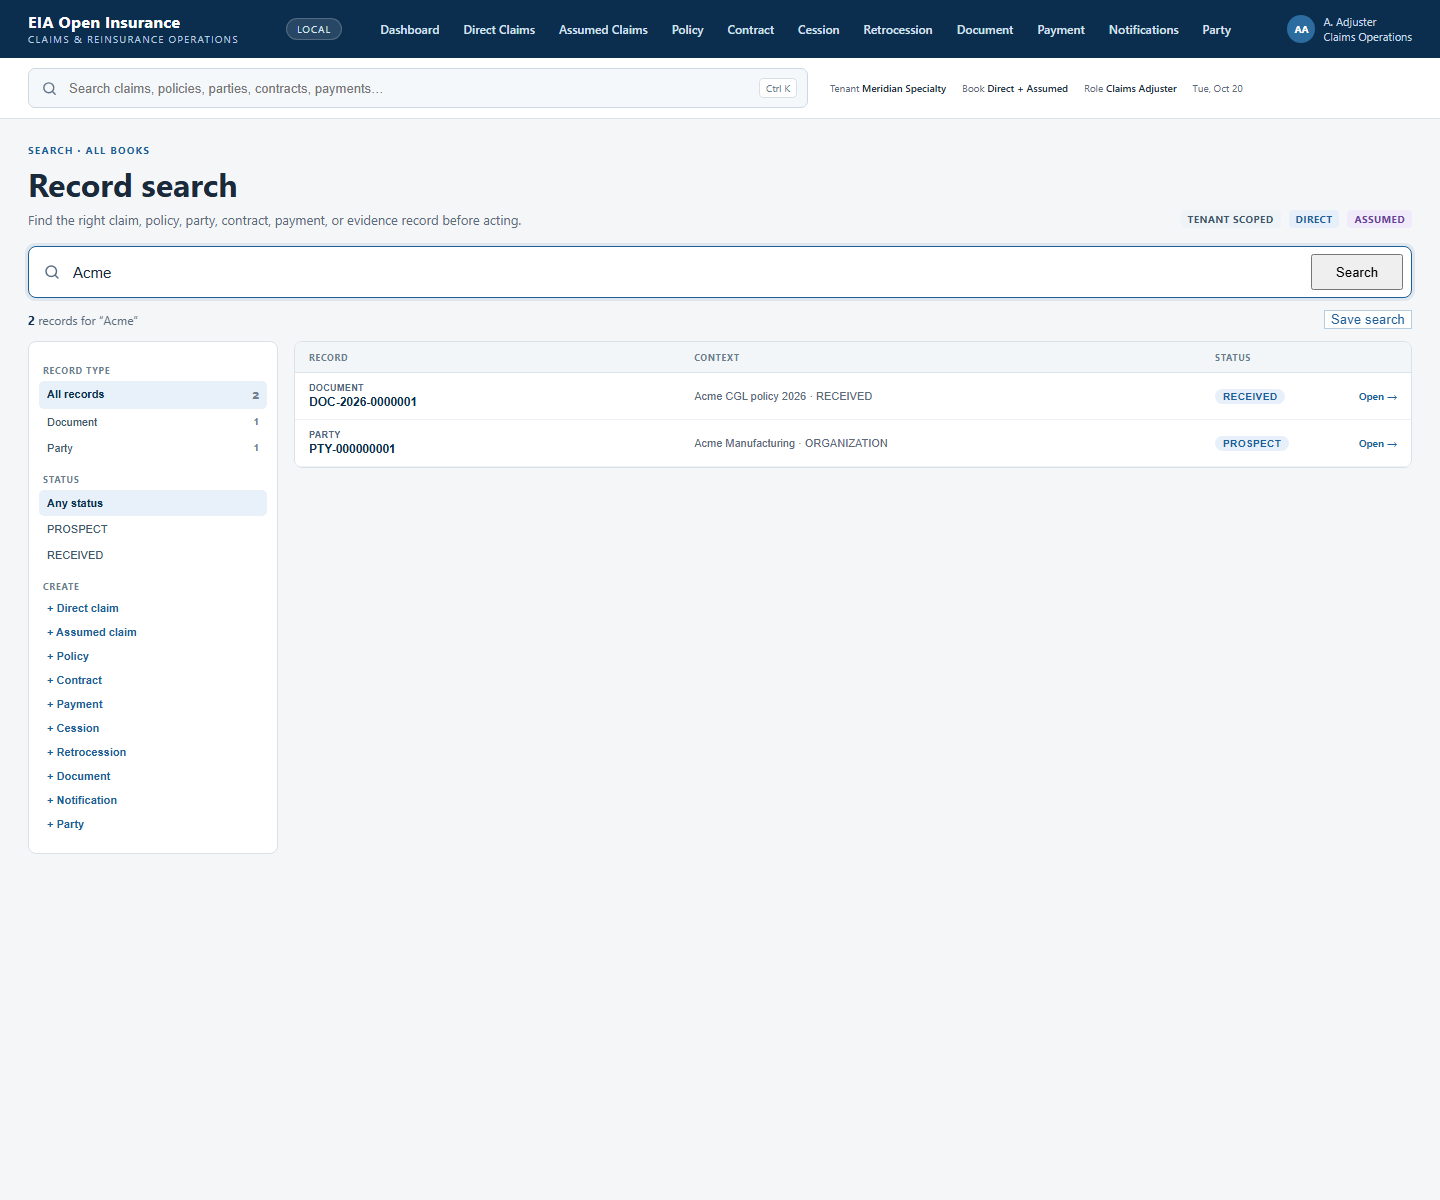
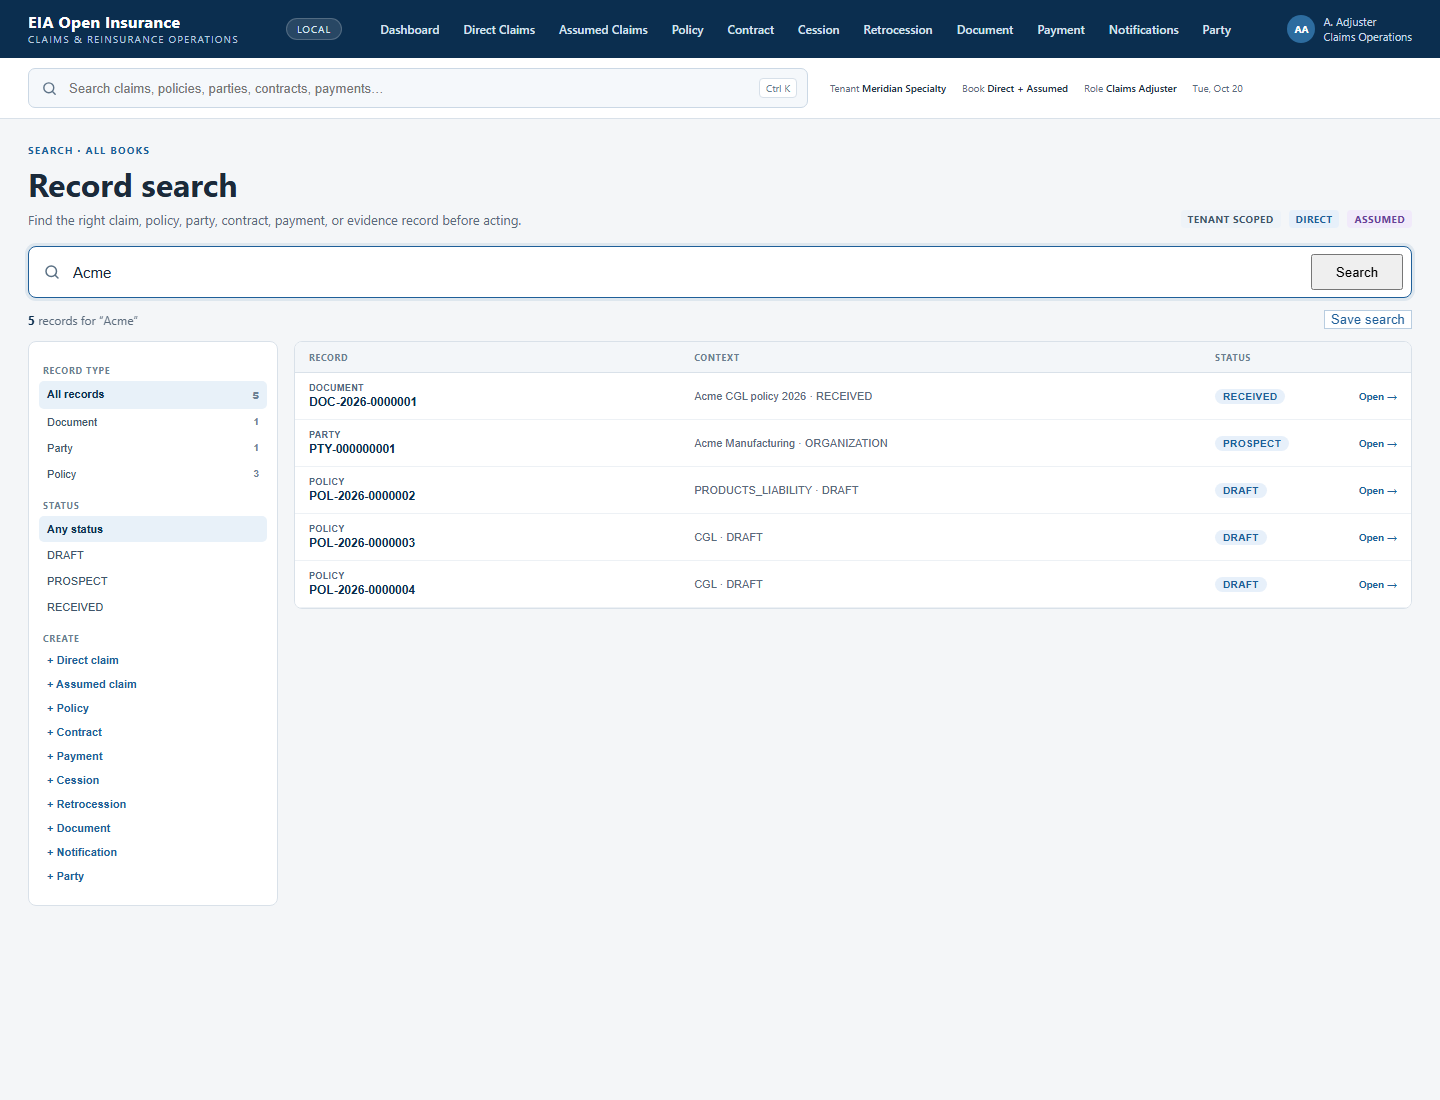
docs: record claim assignment and 1,652-test verification

diff --git a/docs/EVIDENCE.md b/docs/EVIDENCE.md
@@ -11,7 +11,7 @@ exit code: 0
 ```
 
 - 37 repositories checked.
-- 185 JUnit suites, **1,568 tests, 0 failures/errors**.
+- 192 JUnit suites, **1,652 tests, 0 failures/errors**.
 - 11 Playwright suites: 10 vertical workbenches plus the shell.
 
 ## Running stack
@@ -132,7 +132,7 @@ exit code: 0
 ```
 
 - 37 repositories checked.
-- 185 JUnit suites, **1,568 tests, 0 failures**.
+- 192 JUnit suites, **1,652 tests, 0 failures**.
 - 12 Playwright suites, including the opt-in live all-vertical suite.
 - Kubernetes namespace `eia-local`: **37/37 pods Ready**.
 - Gateway smoke: **10/10 vertical APIs**.
@@ -171,7 +171,7 @@ exit code: 0
 - Cross-links between claim/policy/party/contract/cession/retrocession/payment/notification records.
 - Related-label resolution shows policy, contract, and party numbers/names instead of UUIDs, with graceful fallback.
 - Process context panels explain why the record matters and where it sits in the workflow.
-- Contracts: ten search paths, 9,470 checks, 0 failures.
+- Contracts: ten search paths, 9,656 checks, 0 failures.
 - Live Kubernetes suite: 13/13 (dashboard, event stream, ten verticals, search-open-record, search-create-claim).
 
 ## Round 9: search workspace and process transparency
@@ -191,7 +191,7 @@ exit code: 0
 - Outbox events: `direct.claim.task-created`, `task-completed`, `task-updated`, `note-added`.
 - UI summary: Open tasks card; diary and summary now stay consistent after task changes.
 - Live evidence: created task, completed it, added a note through the Kubernetes shell; task and note events appear in the event-ingest inbox.
-- Contracts: 9,470 checks, 0 failures; 172 published events.
+- Contracts: 9,656 checks, 0 failures; 172 published events.
 - Full matrix: 173 suites, 1,400 tests, 0 failures.
 
 
@@ -201,7 +201,7 @@ exit code: 0
 - Tables, APIs, optimistic task versioning, ASSUMED book wall, and outbox events.
 - Diary & Notes tab, Open tasks card, overdue styling, and notes timeline.
 - Live evidence: created and completed `TSK-2026-0000001` on `RNS-2026-0000002`; inbox received `assumed.claim.task-created` and `assumed.claim.task-completed`.
-- Contracts: 9,470 checks, 0 failures; 176 published events.
+- Contracts: 9,656 checks, 0 failures; 176 published events.
 - Full matrix: 180 suites, 1,481 tests, 0 failures.
 
 ## Round 12: settlement-to-payment hand-off
@@ -212,7 +212,7 @@ exit code: 0
 - Payment workbench shows the source record and routes back to the claim/policy.
 - Claim Settlements tab shows related payments with hydrated amounts.
 - Live: authorized settlement `SET-2026-0000001` handed off to `PAY-2026-0000002`, source `DIRECT_CLAIM` / `CLM-2026-0000001`.
-- Contracts: 9,470 checks, 0 failures; 176 published events.
+- Contracts: 9,656 checks, 0 failures; 176 published events.
 - Full matrix: 181 suites, 1,508 tests, 0 failures.
 
 ## Round 13: idempotent claim diary writes
@@ -223,5 +223,15 @@ exit code: 0
 - Requests without a key behave as before.
 - Direct and Assumed UIs generate stable keys and retain them across failed retries.
 - Live: repeated direct task POST returned the same task ID with replay=true; repeated assumed task POST likewise; changed body returned 409.
-- Contracts: 9,470 checks, 0 failures.
+- Contracts: 9,656 checks, 0 failures.
 - Full matrix: 185 suites, 1,568 tests, 0 failures.
+
+## Round 14: claim ownership and name-based search
+
+- Direct and Assumed Claims now support assigned adjuster and team.
+- `PATCH /api/v1/claims/{id}/assignment` and `/api/v1/assumed-claims/claims/{id}/assignment` with optimistic versioning.
+- Assignment is versioned, audited, and emits `direct.claim.assigned` / `assumed.claim.assigned`.
+- Record headers, queue rows, summaries, and filters show ownership.
+- Search enriches an insured-party hit with that party's direct policies, so searching an insured name finds their policies.
+- Contracts: 9,656 checks, 0 failures; 178 published events.
+- Full matrix: 192 suites, 1,652 tests, 0 failures.

diff --git a/docs/KUBERNETES_EVIDENCE.md b/docs/KUBERNETES_EVIDENCE.md
@@ -258,3 +258,20 @@ Live evidence in `eia-local`:
 - assumed claims: identical replay returned the same ID with `replay=true`
 
 The browser forms generate a UUID per create attempt and reuse it only while the attempt is unresolved.
+
+## Claim ownership
+
+![Direct claim assigned](images/claim-assigned.png)
+
+Both claims books now show the owner in the record header, summary, and queue, with an Assign action.
+
+Live evidence:
+
+- `CLM-2026-0000001` assigned to `A. Adjuster` / `DIRECT_CLAIMS`.
+- `RNS-2026-0000002` assigned to `B. Examiner` / `ASSUMED_CLAIMS`.
+- Both assignment events reached the event inbox.
+- Queue filters match owner, team, and Unassigned.
+
+## Insured-name search
+
+Searching `Acme` now returns the Acme party plus its direct policies (`POL-2026-…`) by resolving `GET /api/v1/policies?insuredPartyId=…` for the matched party. Clicking a policy opens the policy record.

diff --git a/docs/PROGRESS.md b/docs/PROGRESS.md
@@ -105,3 +105,10 @@
 - Idempotency-Key support and replay/conflict semantics for task/note creates.
 - Stable UI keys across retries; new key after success.
 - Contract 9,470 checks; full matrix 185 suites, 1,568 tests.
+
+## Round 14: claim ownership
+
+- Adjuster/team assignment with optimistic versioning and outbox events in both claims books.
+- Ownership in headers, summaries, queue rows, and filters; audited reassignment.
+- Search enriches insured-party hits with policies.
+- Contracts 9,656 checks; full matrix 192 suites, 1,652 tests, 0 failures.
